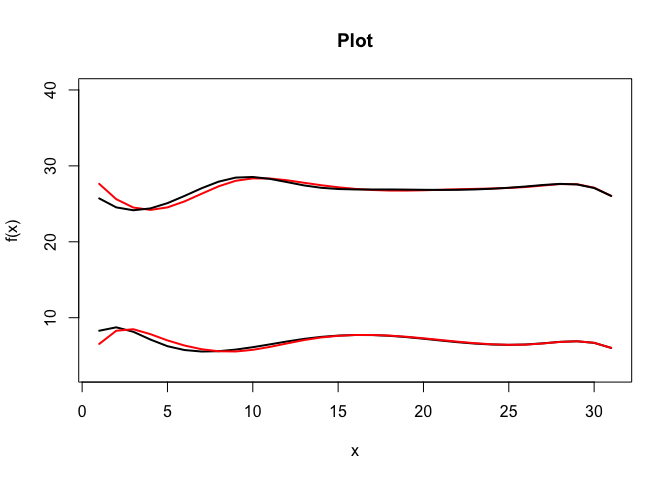
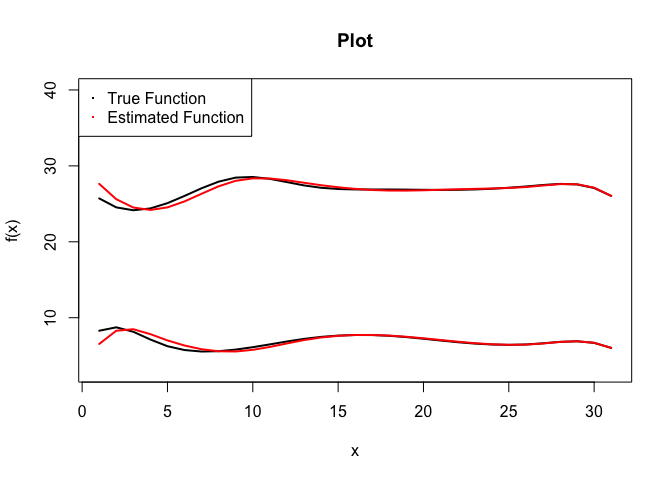
Twentieth Commit

Changed region(s): [[0.125, 0.1875, 0.375, 0.3125], [0.5312, 0.375, 0.9062, 0.4062], [0.375, 0.3438, 0.4062, 0.375]]

diff --git a/README.md b/README.md
@@ -25,7 +25,7 @@ install.packages("funclustVI")
 And the development version from [GitHub](https://github.com/) with:
 
 ``` r
-# install.packages("devtools")
+ install.packages("devtools")
 devtools::install_github("jewelltaylor/funclustVI")
 ```
 
@@ -61,7 +61,8 @@ variational inference based approach.
   - **draw**: Parameter that determines whether or not to plot the real
     vs estimated curves after fitting the model
   - **plot\_params**: List of parameters corresponding to
-    characteristics of the plot
+    characteristics of the plot. Must include vectors xlim and ylim
+    corresponding to the x and y limits of the plot.
 
 #### Return Value
 
@@ -84,19 +85,27 @@ generation, modelling and evaluation parameters specified by the user.
 
   - **data\_params**: List object containing the parameters required for
     generating the functional data and its characterics. Must include
-    function named generate\_data that acception the data params list
-    and returns a matrix of curves in the rows. Other then this
-    requirement, anything can be included in the data\_params object.
+    function named generate\_data that accepts the data params list and
+    returns a matrix of curves in the rows. Must also include vector
+    named true\_cluster\_assignments that contains the actual cluster
+    assignments for each curve. Must also include vector named seeds
+    that contains seeds the seed for each iteration of the simulation.
+    Other then these requirements, anything can be included in the
+    data\_params object.
   - **model\_params**: List object containing the parameters required
     for modelling the data and generating the cluster assignments. Must
     include function named model\_func that accepts Y, data\_params and
     model\_params and returns a vector containing the cluster assignment
-    of each curve. Other then this requirement, anything can be included
-    in the model\_params object.
+    of each curve. Must also include list plot\_params as with the
+    requirements as referenced above. Other then these requirements,
+    anything can be included in the model\_params object.
   - **eval\_func\_list**: List object containing the functions
     corresponding to the various evaluations metrics evaluation the
-    performance of the algorithim
-  - **number\_of\_simulationa**: The number of simulations
+    performance of the algorithim. Each function must accept a vector
+    cluster\_assignments that is generated from the function model\_func
+    in the model\_params list as well as the data\_params object which
+    contains the vector true cluster assignments as referenced above.
+  - **number\_of\_simulations**: The number of simulations
   - **save\_path**: The file path to save the results from the
     simualations
 
@@ -148,7 +157,7 @@ model = funcslustVI(x, Y, K, true_cluster_assignments, init, nbasis, convergence
 cluster_assignemnts = model$cluster_assignments
 
 print(cluster_assignemnts)
-#>  [1] 1 1 1 1 1 1 1 1 1 3 2 2 2 2 2 2 2 2 2 2 3 3 3 3 3 3 3 3 3 3
+#>  [1] 1 2 2 2 2 2 2 2 2 2 3 3 3 3 3 3 3 3 3 3 1 1 1 1 1 1 1 1 1 1
 ```
 
 This is an example which shows how to use the funclustVI package to
@@ -253,7 +262,7 @@ simulate(data_params, model_params, eval_func_list, number_of_simulations, save_
     #> [1,]    5 0.8996935
     #> 
     #> $simulation_length
-    #> Time difference of 4.240194 secs
+    #> Time difference of 5.017083 secs
     #> 
     #> $eval_metric_avg_vector
     #> [1] 5.0000000 0.8996935
